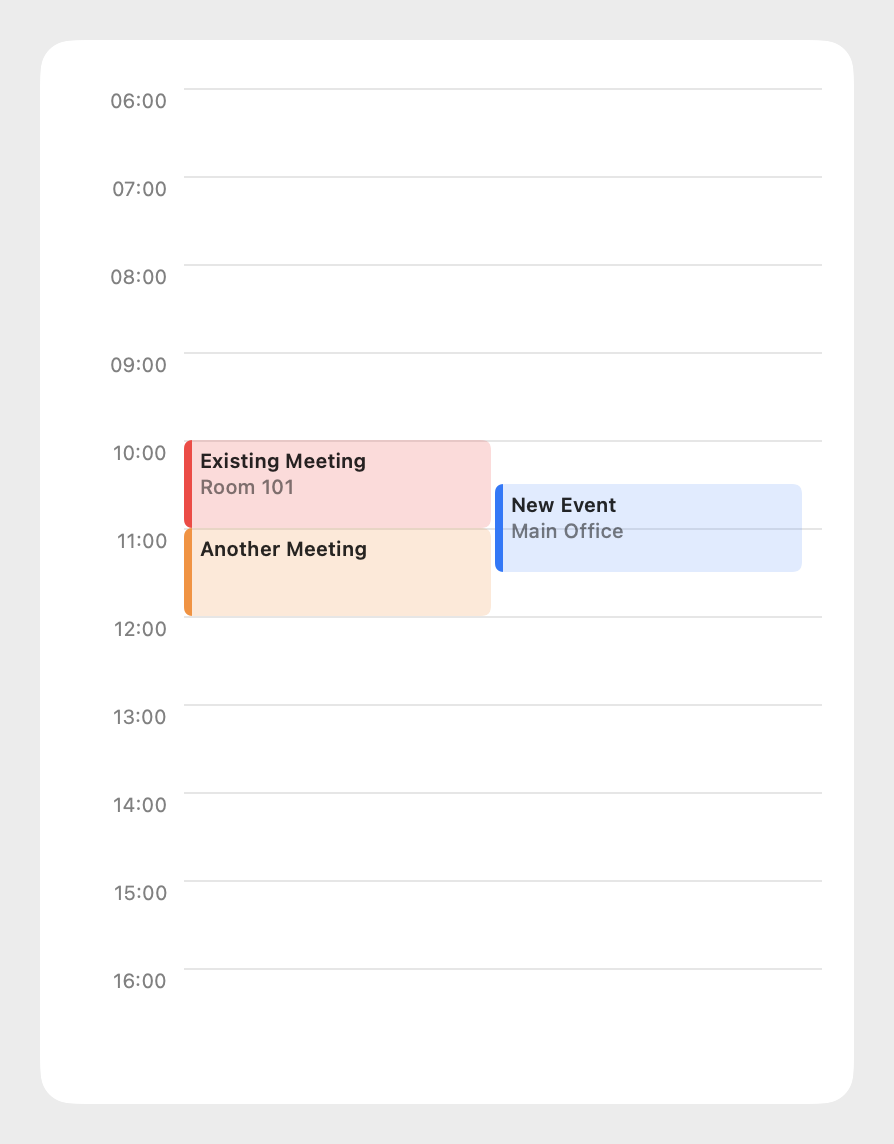
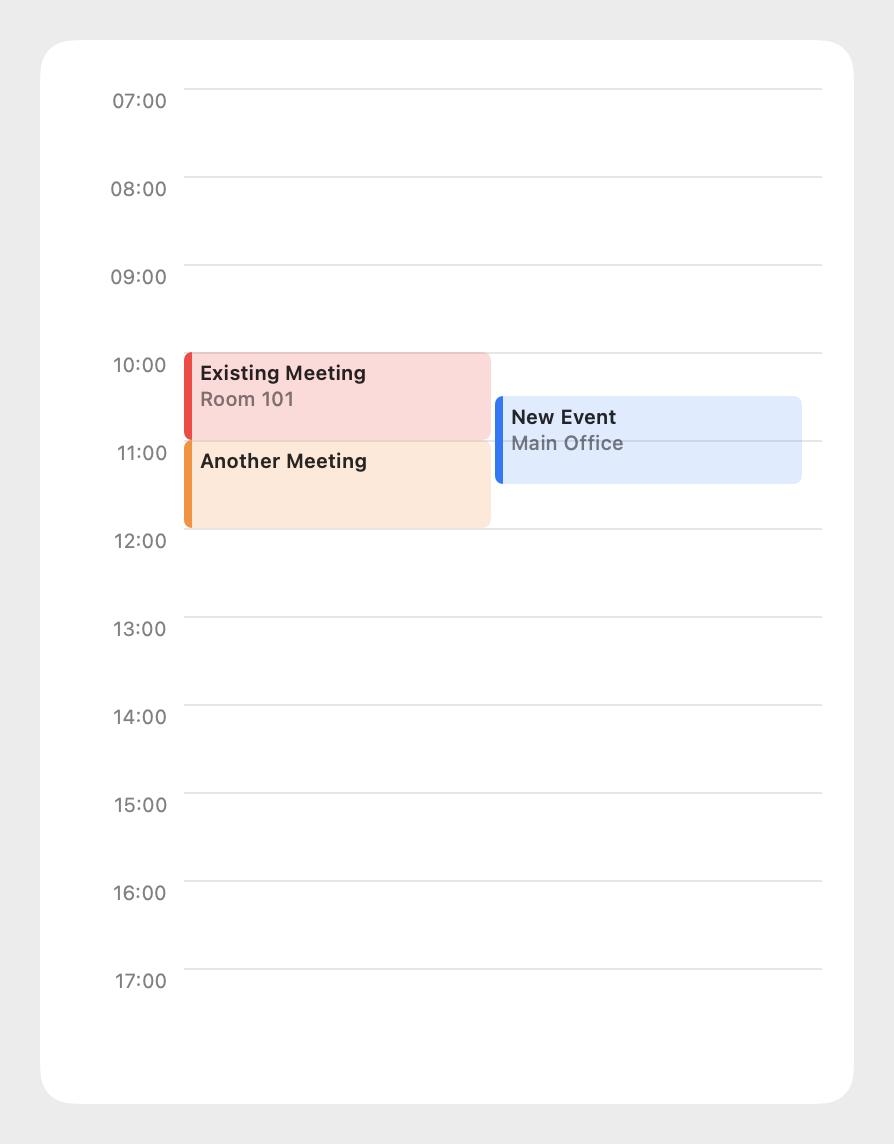
fix: correct hour-range math for non-zero minutes
- extract hour-range calculation into a testable HourRangeMath enum.
- fix under-bounding when the base date has non-zero minutes.
- add unit tests covering same-day, next-day, and previous-day cases.
- regenerate affected screen shots

diff --git a/Tests/TimelineUITests/HourRangeMathTests.swift b/Tests/TimelineUITests/HourRangeMathTests.swift
@@ -1,0 +1,54 @@
+import Foundation
+import Testing
+
+@testable import TimelineUI
+
+private func utcCalendar() -> Calendar {
+	var calendar = Calendar(identifier: .gregorian)
+	calendar.locale = Locale(identifier: "en_US_POSIX")
+	calendar.timeZone = TimeZone(identifier: "UTC")!
+	return calendar
+}
+
+private func time(_ hour: Int, _ minute: Int, day: Int = 21, calendar: Calendar) -> Date {
+	calendar.date(from: DateComponents(year: 2026, month: 7, day: day, hour: hour, minute: minute))!
+}
+
+@Test func `hoursSinceBase does not truncate a base date with non-zero minutes`() throws {
+	let calendar = utcCalendar()
+	let baseDate = time(9, 5, calendar: calendar)
+	let date = time(10, 0, calendar: calendar)
+
+	let hours = HourRangeMath.hoursSinceBase(date, baseDate: baseDate, calendar: calendar)
+
+	#expect(hours == 10)
+}
+
+@Test func `hoursSinceBase returns the base date's own hour when they're the same moment`() throws {
+	let calendar = utcCalendar()
+	let baseDate = time(9, 5, calendar: calendar)
+
+	let hours = HourRangeMath.hoursSinceBase(baseDate, baseDate: baseDate, calendar: calendar)
+
+	#expect(hours == 9)
+}
+
+@Test func `hoursSinceBase adds 24 for a date on the day after baseDate`() throws {
+	let calendar = utcCalendar()
+	let baseDate = time(9, 5, day: 21, calendar: calendar)
+	let date = time(1, 0, day: 22, calendar: calendar)
+
+	let hours = HourRangeMath.hoursSinceBase(date, baseDate: baseDate, calendar: calendar)
+
+	#expect(hours == 25)
+}
+
+@Test func `hoursSinceBase subtracts 24 for a date on the day before baseDate`() throws {
+	let calendar = utcCalendar()
+	let baseDate = time(9, 5, day: 21, calendar: calendar)
+	let date = time(23, 0, day: 20, calendar: calendar)
+
+	let hours = HourRangeMath.hoursSinceBase(date, baseDate: baseDate, calendar: calendar)
+
+	#expect(hours == -1)
+}

diff --git a/Sources/TimelineUI/DayTimelineView.swift b/Sources/TimelineUI/DayTimelineView.swift
@@ -1,5 +1,28 @@
 import SwiftUI
 
+/// Pure, testable math for converting a date into an hour index relative to another date's
+/// calendar day — used to size the visible hour range.
+enum HourRangeMath {
+	/// `date`'s hour-of-day, plus 24 per calendar day between `baseDate`'s day and `date`'s day.
+	///
+	/// Keeps `baseDate`'s own minutes out of the calculation entirely, unlike combining its
+	/// `.hour` component (which discards them) with a raw `timeIntervalSince(baseDate)` delta
+	/// (which doesn't) — that mismatch leaks `baseDate`'s discarded minutes back in as an error
+	/// that then gets truncated away by the `Int(...)` conversion, under-bounding the computed
+	/// range. E.g. `baseDate` at 09:05 with another item at 10:00: the old computation truncated
+	/// `(10:00-09:05)/3600` to `0`, yielding hour `9` instead of `10`.
+	static func hoursSinceBase(_ date: Date, baseDate: Date, calendar: Calendar) -> Int {
+		let dateHour = calendar.component(.hour, from: date)
+		let daysBetween =
+			calendar.dateComponents(
+				[.day],
+				from: calendar.startOfDay(for: baseDate),
+				to: calendar.startOfDay(for: date)
+			).day ?? 0
+		return dateHour + daysBetween * 24
+	}
+}
+
 /// A full-day timeline view with an hour grid.
 ///
 /// Use `DayTimelineView` to display a complete daily schedule. The view automatically
@@ -95,10 +118,7 @@ public struct DayTimelineView: View {
 	}
 
 	private func hoursSinceBase(_ date: Date) -> Int {
-		let calendar = Calendar.current
-		let baseHour = calendar.component(.hour, from: baseDate)
-		let hours = Int(date.timeIntervalSince(baseDate) / 3600)
-		return baseHour + hours
+		HourRangeMath.hoursSinceBase(date, baseDate: baseDate, calendar: Calendar.current)
 	}
 
 	public var body: some View {